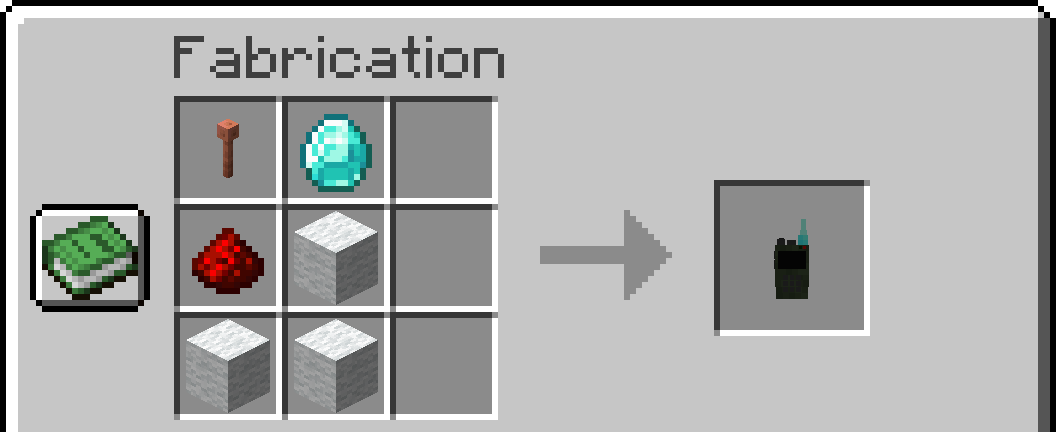
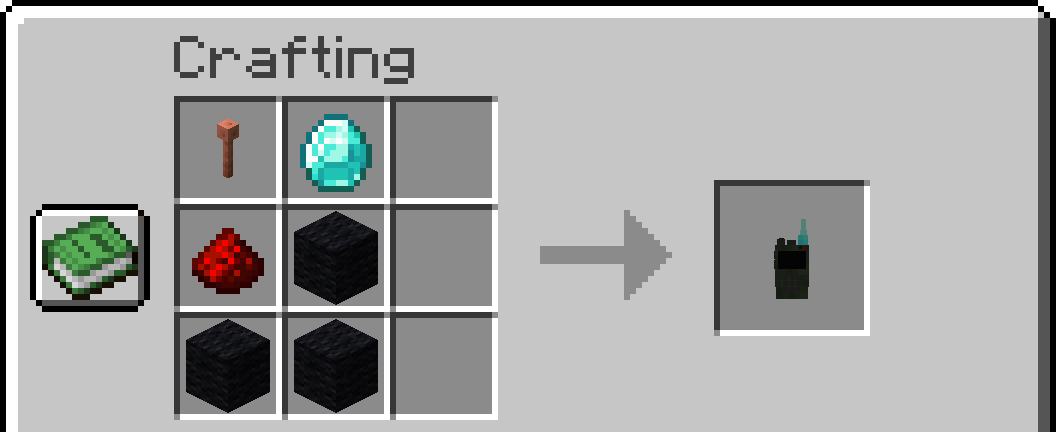
Update README.md and gallery

Changed region(s): [[0.1562, 0.4815, 0.375, 0.963], [0.1562, 0.0903, 0.5, 0.2106]]

diff --git a/README.md b/README.md
@@ -55,6 +55,15 @@ This mod adds two-way radios with different upgrades.
 + Gold: 1024 block distance
 + Diamond: 2048 block distance
 + Netherite: 4096 block distance
+## Crafts:
+*Note: Any type of wood and wool is possible.*
+![image](https://raw.githubusercontent.com/Flaton1/walkie-talkie-mod/1.20.4/gallery/walkie_talkie_craft_wood.png)
+![image](https://raw.githubusercontent.com/Flaton1/walkie-talkie-mod/1.20.4/gallery/walkie_talkie_craft_stone.png)
+![image](https://raw.githubusercontent.com/Flaton1/walkie-talkie-mod/1.20.4/gallery/walkie_talkie_craft_iron.png)
+![image](https://raw.githubusercontent.com/Flaton1/walkie-talkie-mod/1.20.4/gallery/walkie_talkie_craft_gold.png)
+![image](https://raw.githubusercontent.com/Flaton1/walkie-talkie-mod/1.20.4/gallery/walkie_talkie_craft_diamond.png)
+![image](https://raw.githubusercontent.com/Flaton1/walkie-talkie-mod/1.20.4/gallery/walkie_talkie_craft_netherite.png)
+![image](https://raw.githubusercontent.com/Flaton1/walkie-talkie-mod/1.20.4/gallery/walkie_talkie_craft_speaker.png)
 ## Credits
 ### Textures and models :
 + **4irwan**
